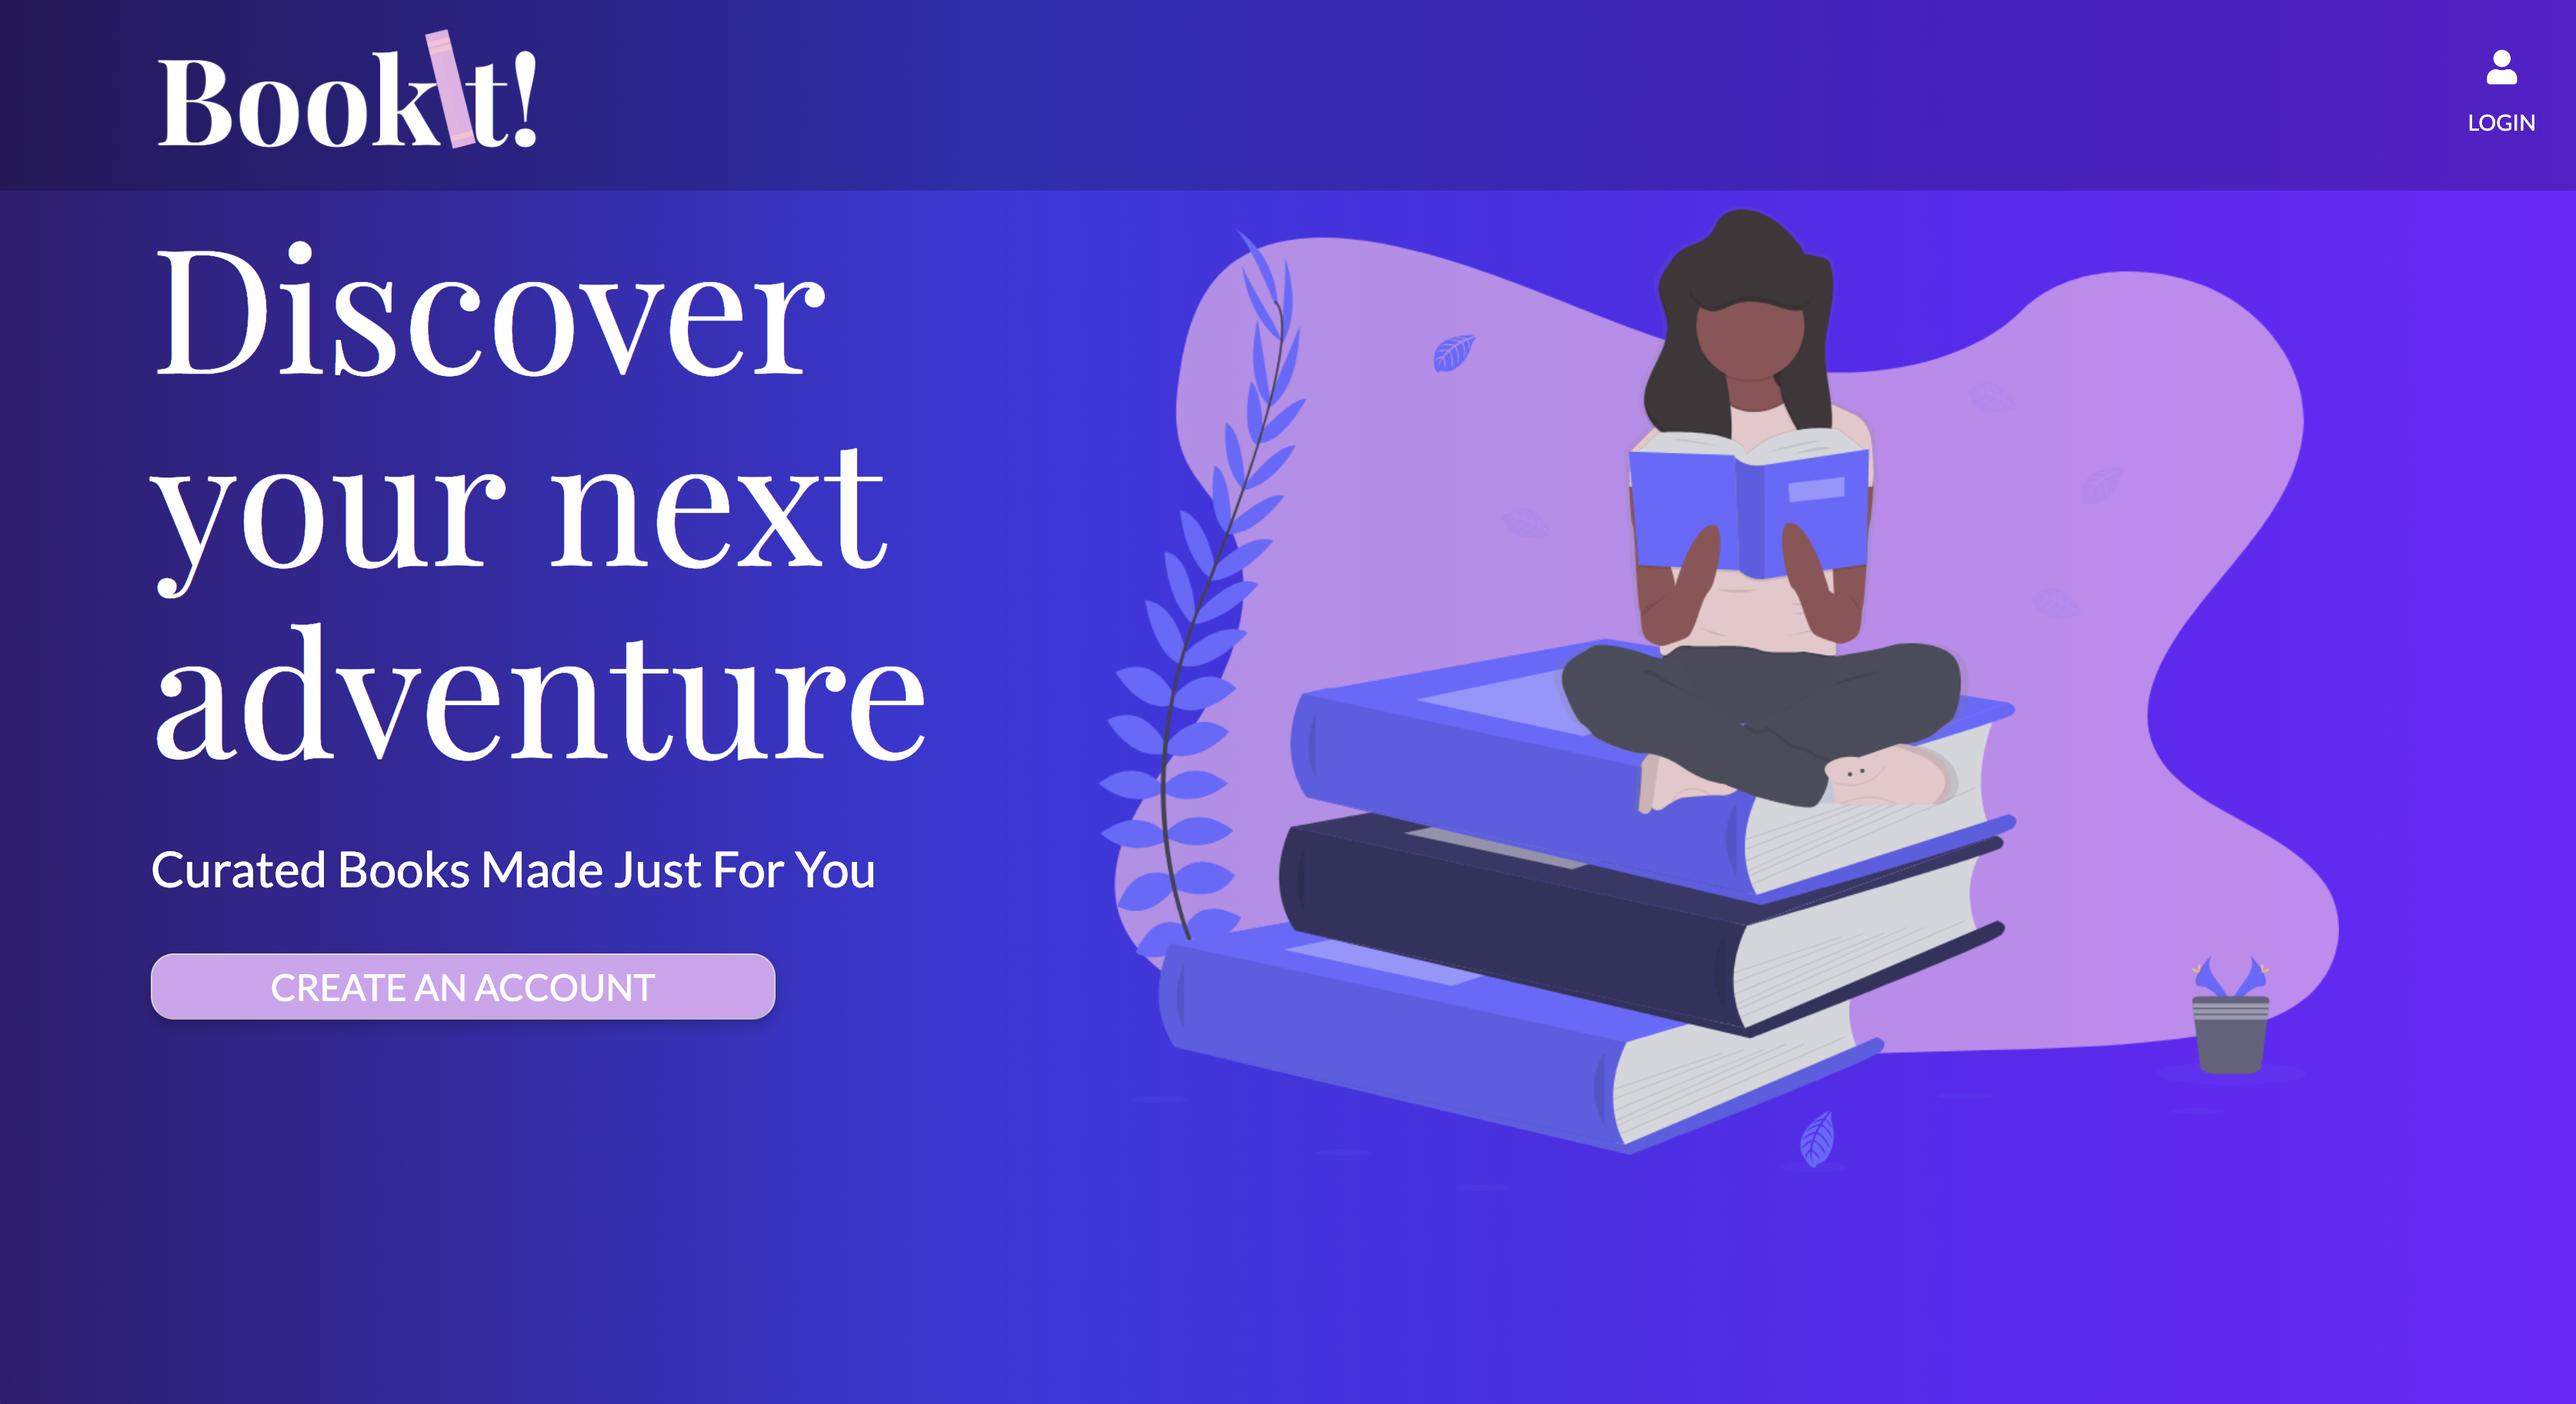
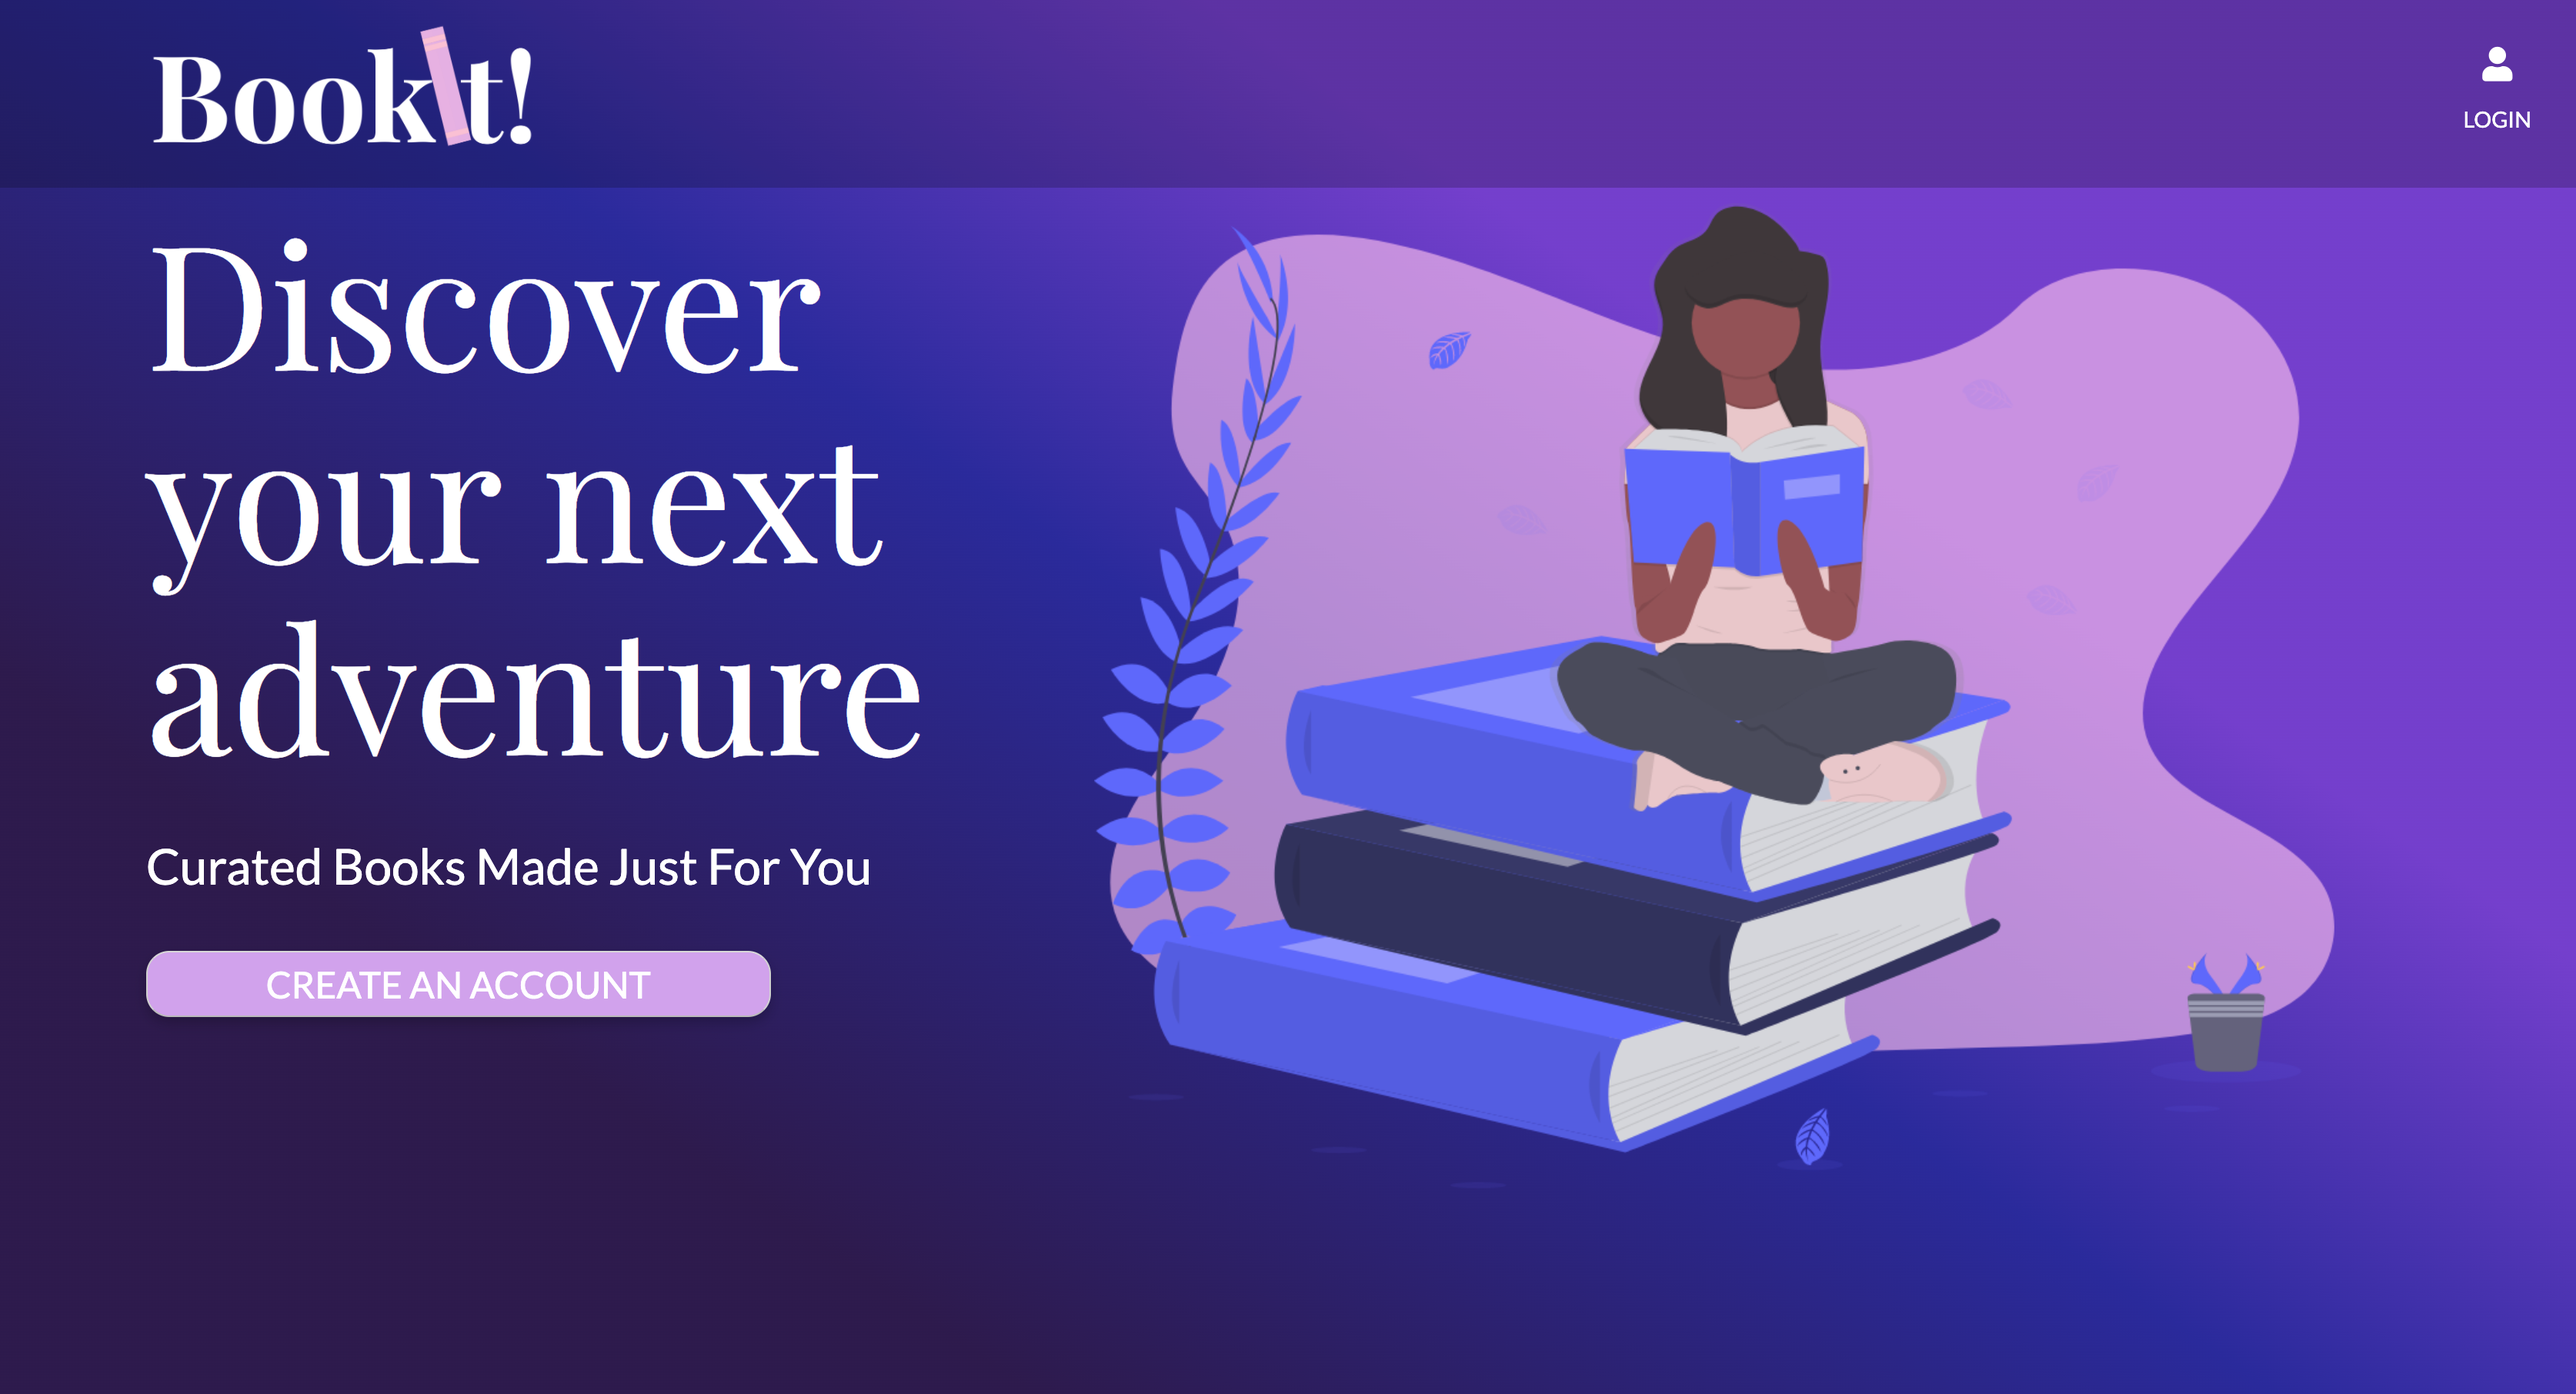
update

diff --git a/public/fave.css b/public/fave.css
@@ -13,8 +13,8 @@ body {
    font-family: "Lato", Arial, sans-serif;
    background: linear-gradient(360deg, rgba(25,13,41,1) 39%, rgba(33,14,59,1) 80%, rgba(38,27,99,1) 100%);
    height: 100vh;
+   margin: 0;
 }
-
 
 /******************************************
 /* LAYOUT
@@ -24,37 +24,30 @@ body {
 /*******************************************/
 header{
   display: flex;
-  justify-content: center;
   align-items: center;
   border-bottom: 1px solid rgb(181,176,255, .15);
   height: 10vh;
   background: rgb(25, 25, 25, .2);
+  justify-content: space-between;
 }
 
-#logo img{
+ #logo img{
   height: 10vh;
-  margin-left: 50px;
 }
-#logo {
-  display: flex;
-  flex: 2;
-}
+
+
 
 #dropdown {
   display: flex;
-  flex-flow: column;
-  align-items: center;
-  margin-right: 50px;
   font-size: 1.1vw;
   font-family: "Playfair Display";
-  justify-content: space-between;
+  /* flex: 1; */
 }
 
 #dropdown div {
   display: flex;
   justify-content: space-between;
   align-items: center;
-  width: 100%;
 }
 
 #dropdown a, #dropdown input{
@@ -76,16 +69,37 @@ header{
 #dropdown input:hover, .fave:hover{
   background-color:rgb(209, 160, 238)
 }
+
+h1{
+  color: white;
+  font-size: 2vw;
+  font-family: "Playfair Display";
+
+}
+
+
 /******************************************
 /* HERO SECTION
 /*******************************************/
 #hero{
   display: flex;
   flex-flow: column;
-  margin: 10vh 20vw;
-  border-radius: 15px;
-  align-self: center;
+  align-content: center;
+  justify-content: space-evenly;
+}
+#eachBook {
+  display: flex;
+  align-items: center;
+  justify-content: space-evenly;
   background: linear-gradient(#352d5740, rgba(0, 0, 0, 0));
   padding-left: 20px;
-  justify-content: space-evenly;
+  list-style: none;
+  margin: 2vh 20vw;
+  color: white;
+  font-size: 2vw;
+  padding: 20px;
+  border-radius: 20px;
+}
+li img {
+  margin-right: 15px;
 }

diff --git a/public/bookpage.css b/public/bookpage.css
@@ -199,6 +199,14 @@ p{
 span {
   font-size: .9vw;
 }
+.description {
+  display: -webkit-box;
+  overflow: hidden;
+  text-overflow: ellipsis;
+  -webkit-line-clamp: 7;
+  -webkit-box-orient: vertical;
+
+}
 /******************************************
 /* ADDITIONAL STYLES
 /*******************************************/

diff --git a/README.md b/README.md
@@ -5,22 +5,25 @@ I built an application called BookIt which gives readers just what they need for
 
 
 ![Image of BookIt!](bookit-home.png)
-![Image of BookIt!](signup.png)
 ![Image of BookIt!](interests.png)
 ![Image of BookIt!](profile.png)
+![Image of BookIt!](favorite.png)
+![Image of BookIt!](bookpage.png)
+
 
 **Pages in Order:**
-1. index.html
-2. signup.html
-3. interest.html
-4. profile.html
+1. index.ejs
+2. interest.ejs
+3. profile.ejs
+4. favorite.ejs
+5. bookpage.png
+
 
 **API's:**
-- Will be using Google's API to include data about the user that will align with the suggestions the application will provide.
+- Using Google's API to include data about the user that will align with the suggestions the application will provide.
 
 ### Development:
 **Languages Used:** HTML & CSS, JavaScript, Node.js, MongoDB
-Second wireframe of the site
 
 ### Optimizations:
-Need to finish the final edits to each page
+Include input for additional subjects
